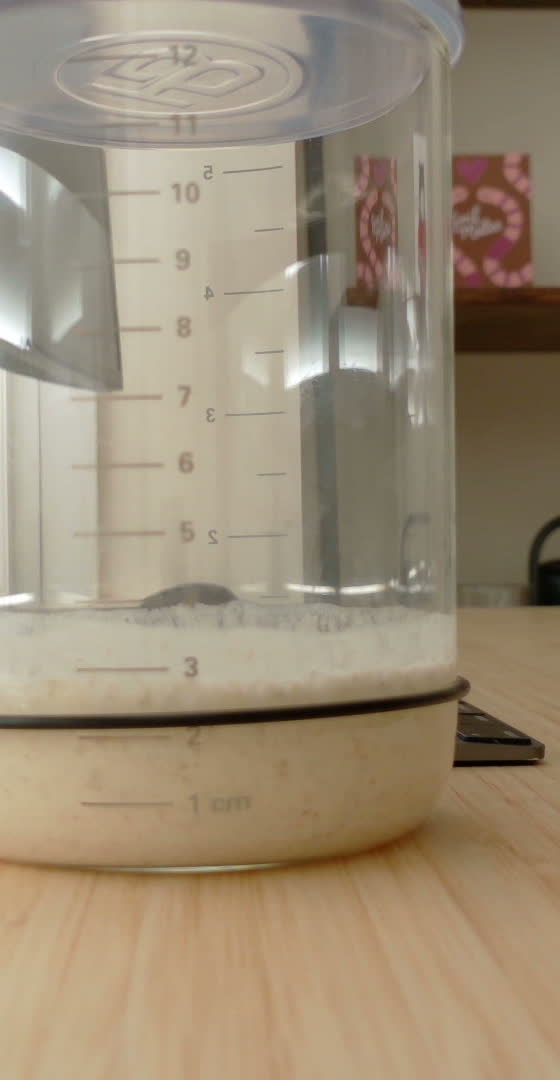
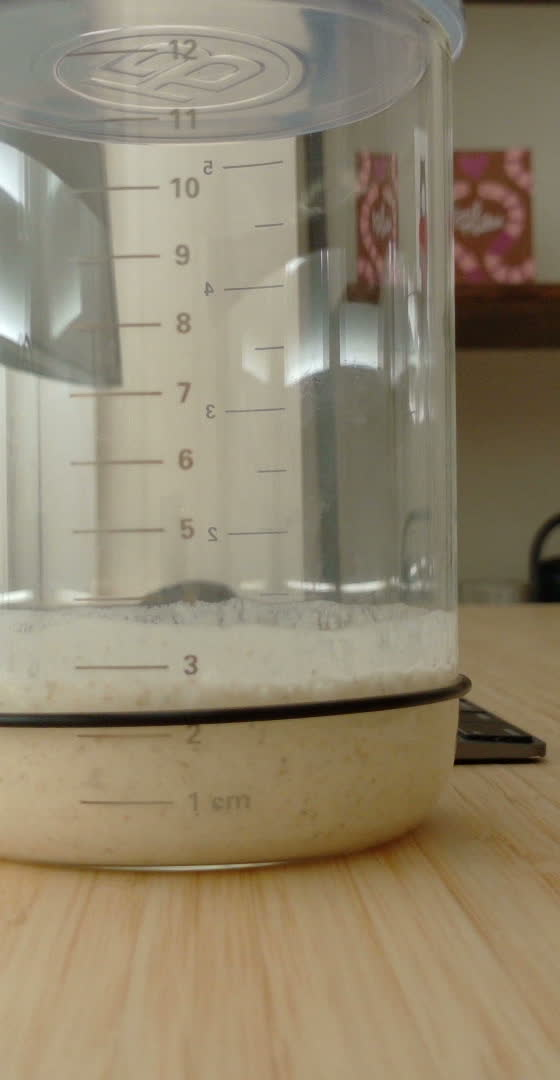
chore: record starter reading

diff --git a/public/index.html b/public/index.html
@@ -2,11 +2,11 @@
 <html lang="en"><head><meta charset="utf-8"><meta name="viewport" content="width=device-width,initial-scale=1"><title>Simon’s Sourdough Starter Watch</title>
 <link href="https://fonts.googleapis.com/css2?family=IBM+Plex+Sans:wght@400;500;600;700;800&family=JetBrains+Mono:wght@400;500;600;700&family=Fraunces:opsz,wght@9..144,650;9..144,800&display=swap" rel="stylesheet">
 <link rel="stylesheet" href="styles.css"></head><body><div class="wrap"><header class="topbar"><div class="brand"><div class="logo" aria-hidden="true"><div class="loafLogo" role="img" aria-label="cartoon bread loaf logo"><span class="loafBody"></span><span class="crust-mark crust-mark-a"></span><span class="crust-mark crust-mark-b"></span><span class="crust-mark crust-mark-c"></span><span class="loafSmile"></span></div></div><div>Simon’s Sourdough Starter Watch</div></div><div class="navpills"><span class="pill dark">FERMENTATION LAB · STORY MODE</span><span class="pill orange">Observed by <a class="hermesLink" href="https://hermes-agent.nousresearch.com/" target="_blank" rel="noopener noreferrer">Hermes</a></span></div></header>
-<main><section class="hero"><div class="panel heroCopy"><span class="tag">STARTER-001 · PUBLIC OBSERVATORY</span><h1>One Jar.<br>One Webcam.<br>Many Bubbles.</h1><p class="sub">A living fermentation experiment watched by a webcam and narrated by Hermes. The agent checks the starter, estimates its rise, writes notes, and pings Telegram when the jar does something worth noticing.</p><div class="storyline"><span class="storylineLabel">Current status</span><b>Today’s mood: ambitious.</b> Hermes visual read: Current surface is a mostly horizontal foamy boundary just above 3 cm (~3.3 cm); flat/slightly uneven with moderate bubbles, ignoring wall residue and glare. Hermes has armed peak watch, which is less dramatic than it sounds — but only slightly.</div><div class="metrics"><div class="metric"><span>Rise</span><b>+50%</b></div><div class="metric"><span>Stage</span><b>Rising</b><small>starter activity</small></div><div class="metric"><span>Read confidence</span><b>72%</b><small>visual read certainty</small></div><div class="metric"><span>Watch cadence</span><b>10m</b><small>checks adjust automatically</small></div></div></div><div class="panel photo snapshotCard"><div class="snapshotViewport"><img class="snapshotBackdrop" src="photos/starter.jpg" alt="" aria-hidden="true"><img class="starterSnapshot" src="photos/starter.jpg" alt="latest webcam view of sourdough starter"><div class="measurementOverlay" aria-label="visual guide to the latest starter measurement">
+<main><section class="hero"><div class="panel heroCopy"><span class="tag">STARTER-001 · PUBLIC OBSERVATORY</span><h1>One Jar.<br>One Webcam.<br>Many Bubbles.</h1><p class="sub">A living fermentation experiment watched by a webcam and narrated by Hermes. The agent checks the starter, estimates its rise, writes notes, and pings Telegram when the jar does something worth noticing.</p><div class="storyline"><span class="storylineLabel">Current status</span><b>Today’s mood: ambitious.</b> Hermes visual read: Surface appears near the 3.3 cm level, a mostly flat bubbly top just above the 3 cm mark; glare, jar curvature, residue, and streaks ignored. Hermes has armed peak watch, which is less dramatic than it sounds — but only slightly.</div><div class="metrics"><div class="metric"><span>Rise</span><b>+50%</b></div><div class="metric"><span>Stage</span><b>Rising</b><small>starter activity</small></div><div class="metric"><span>Read confidence</span><b>55%</b><small>visual read certainty</small></div><div class="metric"><span>Watch cadence</span><b>10m</b><small>checks adjust automatically</small></div></div></div><div class="panel photo snapshotCard"><div class="snapshotViewport"><img class="snapshotBackdrop" src="photos/starter.jpg" alt="" aria-hidden="true"><img class="starterSnapshot" src="photos/starter.jpg" alt="latest webcam view of sourdough starter"><div class="measurementOverlay" aria-label="visual guide to the latest starter measurement">
     <span class="measureLine currentLine"><b>Current ~3.3 cm</b></span>
     <span class="measureLine baselineLine"><b>Baseline 2.2 cm</b></span>
-  </div></div><div class="photoOverlay"><div><strong>Latest webcam frame</strong><small>Actual camera view used for estimation</small></div><div><small>15:25 · webcam</small></div></div><div class="measurementSummary"><strong>Measured from the photo</strong><span>Baseline 2.2 cm → current ~3.3 cm → +50% rise</span></div><div class="photoInsight"><div><strong>Latest reading</strong><b>+50% rise</b></div><div><strong>What to look for</strong><span>bubbles, the height line, and whether the top is domed or sinking</span></div></div></div></section>
-<section class="grid readingsGrid"><div class="panel curvePanel"><div class="sectionHead"><h2>Today’s rise curve</h2><span class="pill">actual readings vs. baseline</span></div><div class="chartFrame"><svg class="chart chartDesktop" data-chart="actual-observations" viewBox="0 0 760 270" preserveAspectRatio="xMidYMid meet" aria-label="starter rise over time"><defs><linearGradient id="riseFill2" x1="0" y1="0" x2="0" y2="1"><stop offset="0%" stop-color="#f54e00" stop-opacity=".20"/><stop offset="100%" stop-color="#f54e00" stop-opacity="0"/></linearGradient></defs><g class="axis"><path d="M54 28.0H704M54 82.0H704M54 136.0H704M54 190.0H704M54 244.0H704"/><path d="M54.0 28V244M216.5 28V244M379.0 28V244M541.5 28V244M704.0 28V244"/></g><g class="ylabel"><text x="8" y="34">100%</text><text x="8" y="88">75%</text><text x="8" y="142">50%</text><text x="8" y="196">25%</text><text x="16" y="248">0%</text></g><path class="area" d="M54.0 244.0 L88.2 166.2 L109.1 146.8 L230.8 125.2 L348.6 125.2 L466.4 136.0 L584.3 136.0 L704.0 136.0 L704.0 244 L54.0 244 Z"/><path class="line" d="M54.0 244.0 L88.2 166.2 L109.1 146.8 L230.8 125.2 L348.6 125.2 L466.4 136.0 L584.3 136.0 L704.0 136.0"/><g class="dots"><circle class="chartDot" data-rise="0" aria-label="09:43: +0% rise" cx="54.0" cy="244.0" r="5"/><circle class="chartDot" data-rise="36" aria-label="10:01: +36% rise" cx="88.2" cy="166.2" r="5"/><circle class="chartDot" data-rise="45" aria-label="10:12: +45% rise" cx="109.1" cy="146.8" r="5"/><circle class="chartDot" data-rise="55" aria-label="11:16: +55% rise" cx="230.8" cy="125.2" r="5"/><circle class="chartDot" data-rise="55" aria-label="12:18: +55% rise" cx="348.6" cy="125.2" r="5"/><circle class="chartDot" data-rise="50" aria-label="13:20: +50% rise" cx="466.4" cy="136.0" r="5"/><circle class="chartDot" data-rise="50" aria-label="14:22: +50% rise" cx="584.3" cy="136.0" r="5"/><circle class="chartDot" data-rise="50" aria-label="15:25: +50% rise" cx="704.0" cy="136.0" r="7"/></g><g class="xlabel"><text text-anchor="start" x="54.0" y="258">09:43</text><text text-anchor="middle" x="348.6" y="258">12:18</text><text text-anchor="end" x="704.0" y="258">15:25</text></g></svg><svg class="chart chartMobile" data-chart="actual-observations" viewBox="0 0 390 330" preserveAspectRatio="xMidYMid meet" aria-label="starter rise over time"><defs><linearGradient id="riseFill2" x1="0" y1="0" x2="0" y2="1"><stop offset="0%" stop-color="#f54e00" stop-opacity=".20"/><stop offset="100%" stop-color="#f54e00" stop-opacity="0"/></linearGradient></defs><g class="axis"><path d="M48 34.0H350M48 97.0H350M48 160.0H350M48 223.0H350M48 286.0H350"/><path d="M48.0 34V286M123.5 34V286M199.0 34V286M274.5 34V286M350.0 34V286"/></g><g class="ylabel"><text x="4" y="40">100%</text><text x="4" y="103">75%</text><text x="4" y="166">50%</text><text x="4" y="229">25%</text><text x="12" y="290">0%</text></g><path class="area" d="M48.0 286.0 L63.9 195.3 L73.6 172.6 L130.1 147.4 L184.9 147.4 L239.6 160.0 L294.4 160.0 L350.0 160.0 L350.0 286 L48.0 286 Z"/><path class="line" d="M48.0 286.0 L63.9 195.3 L73.6 172.6 L130.1 147.4 L184.9 147.4 L239.6 160.0 L294.4 160.0 L350.0 160.0"/><g class="dots"><circle class="chartDot" data-rise="0" aria-label="09:43: +0% rise" cx="48.0" cy="286.0" r="5"/><circle class="chartDot" data-rise="36" aria-label="10:01: +36% rise" cx="63.9" cy="195.3" r="5"/><circle class="chartDot" data-rise="45" aria-label="10:12: +45% rise" cx="73.6" cy="172.6" r="5"/><circle class="chartDot" data-rise="55" aria-label="11:16: +55% rise" cx="130.1" cy="147.4" r="5"/><circle class="chartDot" data-rise="55" aria-label="12:18: +55% rise" cx="184.9" cy="147.4" r="5"/><circle class="chartDot" data-rise="50" aria-label="13:20: +50% rise" cx="239.6" cy="160.0" r="5"/><circle class="chartDot" data-rise="50" aria-label="14:22: +50% rise" cx="294.4" cy="160.0" r="5"/><circle class="chartDot" data-rise="50" aria-label="15:25: +50% rise" cx="350.0" cy="160.0" r="7"/></g><g class="xlabel"><text text-anchor="start" x="48.0" y="318">09:43</text><text text-anchor="middle" x="184.9" y="318">12:18</text><text text-anchor="end" x="350.0" y="318">15:25</text></g></svg></div><div class="latestReadingCallout"><strong>Now: +50% at 15:25</strong><span>latest measured point from the webcam sequence</span></div><div class="curveAnnotations"><div class="annotationHead"><h3>Key moments</h3><span>notes from today’s rise</span></div><div class="annotationList">
+  </div></div><div class="photoOverlay"><div><strong>Latest webcam frame</strong><small>Actual camera view used for estimation</small></div><div><small>17:07 · webcam</small></div></div><div class="measurementSummary"><strong>Measured from the photo</strong><span>Baseline 2.2 cm → current ~3.3 cm → +50% rise</span></div><div class="photoInsight"><div><strong>Latest reading</strong><b>+50% rise</b></div><div><strong>What to look for</strong><span>bubbles, the height line, and whether the top is domed or sinking</span></div></div></div></section>
+<section class="grid readingsGrid"><div class="panel curvePanel"><div class="sectionHead"><h2>Today’s rise curve</h2><span class="pill">actual readings vs. baseline</span></div><div class="chartFrame"><svg class="chart chartDesktop" data-chart="actual-observations" viewBox="0 0 760 270" preserveAspectRatio="xMidYMid meet" aria-label="starter rise over time"><defs><linearGradient id="riseFill2" x1="0" y1="0" x2="0" y2="1"><stop offset="0%" stop-color="#f54e00" stop-opacity=".20"/><stop offset="100%" stop-color="#f54e00" stop-opacity="0"/></linearGradient></defs><g class="axis"><path d="M54 28.0H704M54 82.0H704M54 136.0H704M54 190.0H704M54 244.0H704"/><path d="M54.0 28V244M216.5 28V244M379.0 28V244M541.5 28V244M704.0 28V244"/></g><g class="ylabel"><text x="8" y="34">100%</text><text x="8" y="88">75%</text><text x="8" y="142">50%</text><text x="8" y="196">25%</text><text x="16" y="248">0%</text></g><path class="area" d="M54.0 244.0 L80.4 166.2 L96.5 146.8 L190.1 125.2 L280.9 125.2 L371.7 136.0 L462.4 136.0 L554.7 136.0 L704.0 136.0 L704.0 244 L54.0 244 Z"/><path class="line" d="M54.0 244.0 L80.4 166.2 L96.5 146.8 L190.1 125.2 L280.9 125.2 L371.7 136.0 L462.4 136.0 L554.7 136.0 L704.0 136.0"/><g class="dots"><circle class="chartDot" data-rise="0" aria-label="09:43: +0% rise" cx="54.0" cy="244.0" r="5"/><circle class="chartDot" data-rise="36" aria-label="10:01: +36% rise" cx="80.4" cy="166.2" r="5"/><circle class="chartDot" data-rise="45" aria-label="10:12: +45% rise" cx="96.5" cy="146.8" r="5"/><circle class="chartDot" data-rise="55" aria-label="11:16: +55% rise" cx="190.1" cy="125.2" r="5"/><circle class="chartDot" data-rise="55" aria-label="12:18: +55% rise" cx="280.9" cy="125.2" r="5"/><circle class="chartDot" data-rise="50" aria-label="13:20: +50% rise" cx="371.7" cy="136.0" r="5"/><circle class="chartDot" data-rise="50" aria-label="14:22: +50% rise" cx="462.4" cy="136.0" r="5"/><circle class="chartDot" data-rise="50" aria-label="15:25: +50% rise" cx="554.7" cy="136.0" r="5"/><circle class="chartDot" data-rise="50" aria-label="17:07: +50% rise" cx="704.0" cy="136.0" r="7"/></g><g class="xlabel"><text text-anchor="start" x="54.0" y="258">09:43</text><text text-anchor="middle" x="280.9" y="258">12:18</text><text text-anchor="end" x="704.0" y="258">17:07</text></g></svg><svg class="chart chartMobile" data-chart="actual-observations" viewBox="0 0 390 330" preserveAspectRatio="xMidYMid meet" aria-label="starter rise over time"><defs><linearGradient id="riseFill2" x1="0" y1="0" x2="0" y2="1"><stop offset="0%" stop-color="#f54e00" stop-opacity=".20"/><stop offset="100%" stop-color="#f54e00" stop-opacity="0"/></linearGradient></defs><g class="axis"><path d="M48 34.0H350M48 97.0H350M48 160.0H350M48 223.0H350M48 286.0H350"/><path d="M48.0 34V286M123.5 34V286M199.0 34V286M274.5 34V286M350.0 34V286"/></g><g class="ylabel"><text x="4" y="40">100%</text><text x="4" y="103">75%</text><text x="4" y="166">50%</text><text x="4" y="229">25%</text><text x="12" y="290">0%</text></g><path class="area" d="M48.0 286.0 L60.2 195.3 L67.7 172.6 L111.3 147.4 L153.4 147.4 L195.6 160.0 L237.8 160.0 L280.6 160.0 L350.0 160.0 L350.0 286 L48.0 286 Z"/><path class="line" d="M48.0 286.0 L60.2 195.3 L67.7 172.6 L111.3 147.4 L153.4 147.4 L195.6 160.0 L237.8 160.0 L280.6 160.0 L350.0 160.0"/><g class="dots"><circle class="chartDot" data-rise="0" aria-label="09:43: +0% rise" cx="48.0" cy="286.0" r="5"/><circle class="chartDot" data-rise="36" aria-label="10:01: +36% rise" cx="60.2" cy="195.3" r="5"/><circle class="chartDot" data-rise="45" aria-label="10:12: +45% rise" cx="67.7" cy="172.6" r="5"/><circle class="chartDot" data-rise="55" aria-label="11:16: +55% rise" cx="111.3" cy="147.4" r="5"/><circle class="chartDot" data-rise="55" aria-label="12:18: +55% rise" cx="153.4" cy="147.4" r="5"/><circle class="chartDot" data-rise="50" aria-label="13:20: +50% rise" cx="195.6" cy="160.0" r="5"/><circle class="chartDot" data-rise="50" aria-label="14:22: +50% rise" cx="237.8" cy="160.0" r="5"/><circle class="chartDot" data-rise="50" aria-label="15:25: +50% rise" cx="280.6" cy="160.0" r="5"/><circle class="chartDot" data-rise="50" aria-label="17:07: +50% rise" cx="350.0" cy="160.0" r="7"/></g><g class="xlabel"><text text-anchor="start" x="48.0" y="318">09:43</text><text text-anchor="middle" x="153.4" y="318">12:18</text><text text-anchor="end" x="350.0" y="318">17:07</text></g></svg></div><div class="latestReadingCallout"><strong>Now: +50% at 17:07</strong><span>latest measured point from the webcam sequence</span></div><div class="curveAnnotations"><div class="annotationHead"><h3>Key moments</h3><span>notes from today’s rise</span></div><div class="annotationList">
     <article class="annotation" data-event-time="08:10">
       <time>08:10</time>
       <div><strong>Fed.</strong><p>Simon reset the baseline. The origin story begins again.</p></div>
